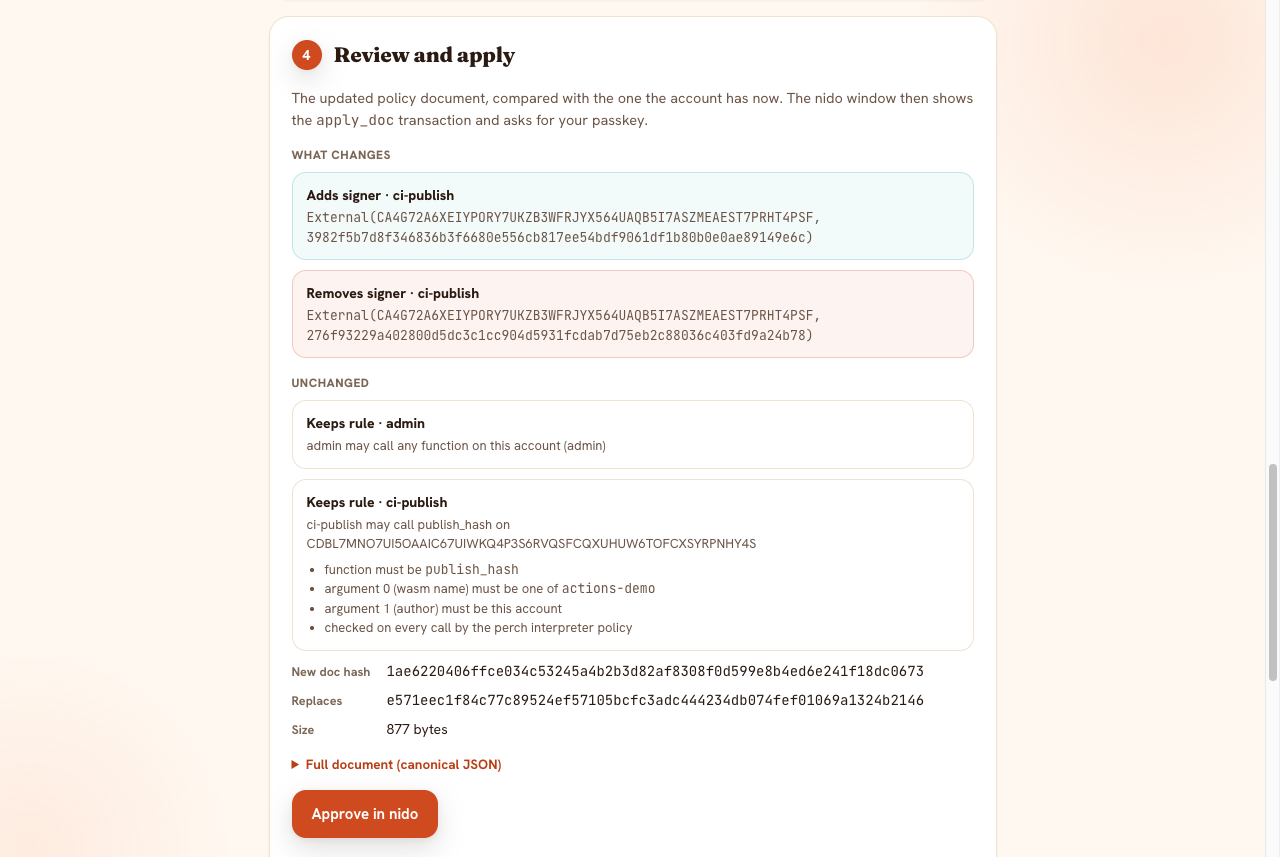
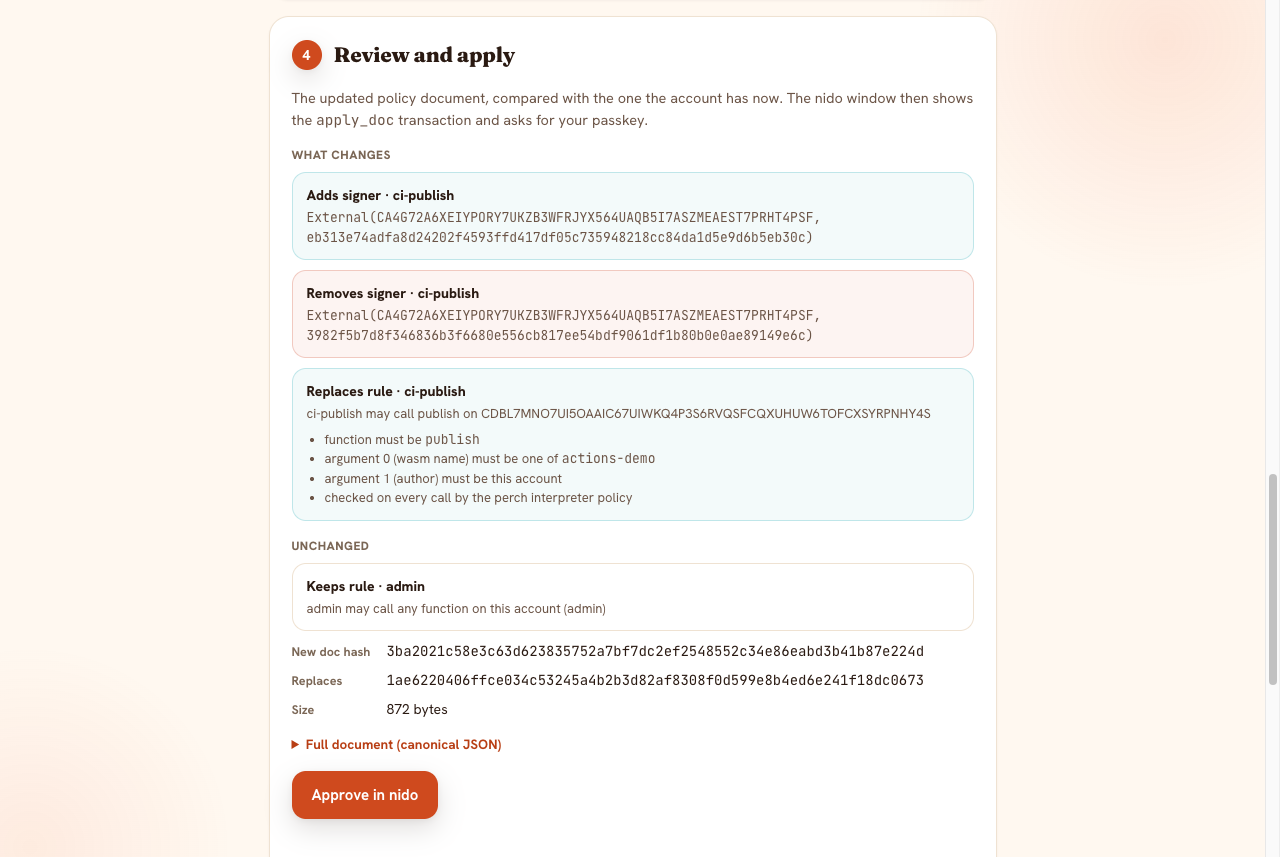
docs: publish-only rule, release-PR flow, run 3 evidence and screenshots

diff --git a/README.md b/README.md
@@ -3,10 +3,11 @@
 A working demo of the Stellar Registry release pipeline from
 [stellar-registry/actions](https://github.com/stellar-registry/actions), running
 on testnet. Merged changes collect in one release PR; merging that PR tags,
-builds, attests and publishes a Soroban contract to the Registry. The publish is signed by a CI key that can call
-`publish_hash` on one registry for one wasm name and nothing else. You
-provision that key with a [nido](https://nido.fyi) smart-account wallet from
-this repo's GitHub Pages dapp:
+builds, attests and publishes a Soroban contract to the Registry. The publish
+is signed by a CI key that can call `publish` on one registry for one wasm
+name and nothing else. You provision that key with a
+[nido](https://nido.fyi) smart-account wallet from this repo's GitHub Pages
+dapp:
 
 **https://stellar-registry.github.io/actions-demo/**
 
@@ -19,8 +20,8 @@ The repo is the proof for the SCF public-goods milestone
 | --- | --- |
 | Wrap the stellar-expert soroban build workflow | [`release.yml`](.github/workflows/release.yml) calls `contract-release.yml` from stellar-registry/actions, the registry's version of `stellar-expert/soroban-build-workflow`. It creates the GitHub release, submits the hash to stellar.expert contract validation and signs GitHub build provenance for the wasm. |
 | Build with `stellar scaffold build` | `contract-release.yml` runs `stellar scaffold build --package actions-demo --meta source_repo=…` then `stellar contract optimize`. `cargo_inherit` in the crate manifest writes the version into the wasm as `binver` meta. |
-| Publish new versions of already-published wasms to the Registry | `registry-publish.yml` verifies the attestation and `binver`, uploads the code and calls `publish_hash`. [Run 1](https://github.com/stellar-registry/actions-demo/actions/runs/36362820785) published `actions-demo` 0.1.0, which claimed the name. [Run 2](https://github.com/stellar-registry/actions-demo/actions/runs/36362983847) published 0.1.1 as a new version of the already-published wasm. |
-| Research keys that can only invoke `publish`, can live in a GitHub workflow, and carry no risky privileges | The CI key is a signer on a nido smart account whose policy document scopes it to `publish_hash` on one registry, for listed names, with the account itself as author. See [Security model](#security-model). The ML-DSA (post-quantum) variant is researched and proven on testnet, but the shared workflow can't sign it yet: [stellar-registry/actions#14](https://github.com/stellar-registry/actions/issues/14). |
+| Publish new versions of already-published wasms to the Registry | `registry-publish.yml` verifies the attestation and `binver`, then publishes with one smart-account-signed `publish`. A wasm over 60 KiB is uploaded first and bound with `publish_hash` instead ([stellar-registry/actions#15](https://github.com/stellar-registry/actions/pull/15)). [Run 1](https://github.com/stellar-registry/actions-demo/actions/runs/36362820785) published `actions-demo` 0.1.0, which claimed the name. [Run 2](https://github.com/stellar-registry/actions-demo/actions/runs/36362983847) published 0.1.1 as a new version; both used the earlier upload + `publish_hash` path. [Run 3](https://github.com/stellar-registry/actions-demo/actions/runs/36366464508) published 0.1.2 with a single `publish`. |
+| Research keys that can only invoke `publish`, can live in a GitHub workflow, and carry no risky privileges | The CI key is a signer on a nido smart account whose policy document scopes it to `publish` on one registry, for listed names, with the account itself as author. See [Security model](#security-model). The ML-DSA (post-quantum) variant is researched and proven on testnet, but the shared workflow can't sign it yet: [stellar-registry/actions#14](https://github.com/stellar-registry/actions/issues/14). |
 | A documented repository, tested in production | This README and the [testnet evidence](#testnet-evidence) below. |
 | Contract upgrades | Deferred by the milestone; out of scope here. |
 
@@ -31,14 +32,18 @@ flowchart LR
   A[merge PR] --> B[release-pr<br/>git-cliff bump]
   B -->|merge release PR| C[detect-releases<br/>tag actions-demo-vX.Y.Z]
   C --> D[contract-release<br/>scaffold build, optimize,<br/>GitHub release, attestation]
-  D --> E[registry-publish<br/>verify, upload, publish_hash]
+  D --> E[registry-publish<br/>verify, publish]
   E --> R[(Registry<br/>CDBL7MNO…)]
   K[CI key<br/>secrets.CI_PUBLISH_SECRET_KEY] -. signs as .-> N[nido account<br/>vars.AUTHOR_ADDRESS]
   N -. author of .-> R
 ```
 
-All four jobs are stellar-registry/actions reusable workflows, pinned to commit
-`7152f7c` the way [perch](https://github.com/stellar-registry/perch) pins them.
+All four jobs are stellar-registry/actions reusable workflows, pinned by
+commit the way [perch](https://github.com/stellar-registry/perch) pins them:
+`7152f7c` for release-pr, detect-releases and contract-release. registry-publish
+is pinned to `7076ce9`, the head of
+[stellar-registry/actions#15](https://github.com/stellar-registry/actions/pull/15);
+that pin moves to the merged commit before this repo's PR merges.
 
 Publishing is a manual decision. Every push to `main` runs `release-pr`, which
 keeps one `chore: release` PR open with the next version and changelog,
@@ -57,20 +62,26 @@ no GitHub App is needed.
 
 ### What signs, and what pays
 
-`registry-publish.yml` runs two transactions per release:
+`registry-publish.yml` publishes a wasm that fits in one transaction with a
+single **`registry.publish(name, author, wasm, version)`**. The registry
+uploads the bytes itself and calls `author.require_auth()`; the author is the
+nido smart account.
+- **Signing.** The `theahaco/stellar-cli` fork the workflow installs finds the
+  account's rule that lists the CI key. It signs the account's auth entry: an
+  OZ `AuthPayload` with one `External(ed25519 verifier, public key)` signer
+  over the rule-bound digest. That entry includes the wasm bytes, so the
+  signature covers the code itself.
+- **Checking.** The account's `__check_auth` verifies the signature through
+  perch's ed25519 verifier (`CA4G72A6…`). The perch interpreter policy on the
+  rule then checks the call.
+- **Paying.** The CI key's own classic account is the transaction source and
+  pays the fee.
 
-1. **`stellar contract upload`** installs the wasm. It is a plain host-function
-   operation authorized by the transaction source, the CI key's own account,
-   which also pays the fee. The smart account plays no part in it.
-2. **`registry.publish_hash(name, author, hash, version)`** binds the name and
-   version to the hash. The registry calls `author.require_auth()`, and the
-   author is the nido smart account. The `theahaco/stellar-cli` fork the
-   workflow installs finds the account's rule that lists the CI key and signs
-   the account's auth entry: an OZ `AuthPayload` with one
-   `External(ed25519 verifier, public key)` signer over the rule-bound digest.
-   The account's `__check_auth` verifies the signature through perch's ed25519
-   verifier (`CA4G72A6…`), then the perch interpreter policy on the rule checks
-   the call. The CI key's account is the source and fee payer here too.
+The wasm travels twice in that transaction, as the argument and inside the
+signed auth entry, and a Soroban transaction is capped at 132096 bytes. So a
+wasm over `publish_max_wasm_bytes` (60 KiB) takes the fallback: a
+`stellar contract upload` authorized by the transaction source alone, then
+`publish_hash` signed the same way. The demo contract is about 1 KB.
 
 So one ordinary Stellar key (`S…`/`G…`) does both jobs. It pays fees from its
 own balance (testnet XLM from friendbot) and it signs for the smart account only
@@ -93,7 +104,7 @@ the canonical JSON and its hash on-chain. The dapp reads the applied document,
 or nido's passkey-admin baseline on a first apply. It adds the key and one
 rule, and hands the `apply_doc` transaction to the nido wallet, where the
 passkey signs it. Here is the document now applied on testnet, key material
-shortened (read it with `get_applied_doc`; its hash is `1ae62204…`):
+shortened (read it with `get_applied_doc`; its hash is `3ba2021c…`):
 
 ```json
 {
@@ -101,7 +112,7 @@ shortened (read it with `get_applied_doc`; its hash is `1ae62204…`):
   "network": "Test SDF Network ; September 2015",
   "signers": [
     { "id": "admin", "verifier": "CACVGSAHYFBXY4LJKWW5B57LAAXHCZVDZOANUTYPLNV6HHQI4Q35EGMY", "key": "04aef679…a68930" },
-    { "id": "ci-publish", "verifier": "CA4G72A6XEIYPORY7UKZB3WFRJYX564UAQB5I7ASZMEAEST7PRHT4PSF", "key": "3982f5b7…149e6c" }
+    { "id": "ci-publish", "verifier": "CA4G72A6XEIYPORY7UKZB3WFRJYX564UAQB5I7ASZMEAEST7PRHT4PSF", "key": "eb313e74…5eb30c" }
   ],
   "rules": [
     { "name": "admin", "scope": { "type": "self-admin" }, "principals": { "type": "all", "signers": ["admin"] } },
@@ -109,7 +120,7 @@ shortened (read it with `get_applied_doc`; its hash is `1ae62204…`):
       "name": "ci-publish",
       "scope": { "type": "contract", "address": "CDBL7MNO7UI5OAAIC67UIWKQ4P3S6RVQSFCQXUHUW6TOFCXSYRPNHY4S" },
       "principals": { "type": "all", "signers": ["ci-publish"] },
-      "functions": ["publish_hash"],
+      "functions": ["publish"],
       "args": [
         { "index": 0, "pred": { "type": "string-in", "values": ["actions-demo"] } },
         { "index": 1, "pred": { "type": "is-self" } }
@@ -119,13 +130,14 @@ shortened (read it with `get_applied_doc`; its hash is `1ae62204…`):
 }
 ```
 
-`publish_hash` is the only function the rule allows, because it is the only call
-in the publish path that needs the account's signature. The upload needs none.
+`publish` is the only function the rule allows. The dapp adds `publish_hash`
+only when you tick "Also allow publish_hash", which is needed only if one of
+your wasms is over 60 KiB and goes through the upload fallback.
 
 ## Security model
 
-**What the key can do.** Sign `publish_hash` on the registry named in the rule,
-for a wasm name in the allow-list, with the nido account as author. It can also
+**What the key can do.** Sign `publish` on the registry named in the rule, for
+a wasm name in the allow-list, with the nido account as author. It can also
 spend its own account's XLM on fees.
 
 **What it can't do.** Each of these was checked on testnet by an
@@ -134,13 +146,13 @@ enforce-mode simulation signed by the live CI key. Run it yourself with
 submitted:
 
 ```text
-key GA4YF5NX3DZUNA3LH5TIBZKWZOAX5ZKL36IGDXY3QCYOBLUJCSPGZ6ZA holds rule #8 "ci-publish" on CD2BVQMPYCMNAWYFSFD234HEKJB6EH74EQWPRNVP3MVSKALH3ORS7MWM
+key GDVTCPTUVX5I2JBAF5CZH76UC7PQLRZVSSBBRTEE3IOV5HLLL2ZQYRWY holds rule #10 "ci-publish" on CD2BVQMPYCMNAWYFSFD234HEKJB6EH74EQWPRNVP3MVSKALH3ORS7MWM
 
-publish_hash, allowed name, author = account (expected: AUTHORIZED)
+publish, allowed name, author = account (expected: AUTHORIZED)
   -> AUTHORIZED
-publish_hash, another name
+publish, another name
   -> refused: Error(Auth, InvalidAction)
-publish (wasm bytes), not in the rule
+publish_hash (authorized only if the rule opted in for wasms over 60 KiB)
   -> refused: Error(Auth, InvalidAction)
 XLM transfer out of the account
   -> refused: Error(Auth, InvalidAction)
@@ -156,7 +168,9 @@ apply_doc (rewrite the account policy)
   is outside the rule's function list. (On this registry deployment that call
   fails in simulation with a storage error before auth is checked, so the
   scope check can't exercise it and doesn't list it.)
-- `publish_hash` binds a name and version to code, and deploys nothing, so
+- `publish_hash` is refused: the rule doesn't opt in, and the demo's wasm is
+  far below the 60 KiB fallback threshold.
+- `publish` binds a name and version to code, and deploys nothing, so
   publishing grants no authority over existing contracts.
 
 **If the secret leaks.** An attacker can publish a version of the listed names
@@ -166,7 +180,7 @@ on-chain with no matching GitHub release or build attestation, which is how
 consumers who check provenance tell it apart. Response: run the dapp again to
 rotate. `apply_doc` replaces the whole document, so the old key's signer entry
 is gone in the same transaction, and a rotated-out key has no rule to sign
-under. This repo's key was rotated that way three times during the demo. To
+under. This repo's key was rotated that way four times during the demo. To
 revoke without a replacement, remove the `ci-publish` rule on nido's policy
 page.
 
@@ -190,9 +204,10 @@ The dapp at https://stellar-registry.github.io/actions-demo/, with a nido
 testnet account. These screenshots are from the testnet run documented below;
 the secret is redacted.
 
-**1. Registry.** Enter the registry and the wasm names the key may publish. The
-page reads the registry's manager and the current version of each name, and
-resolves perch's ed25519 verifier.
+**1. Registry.** Enter the registry and the wasm names the key may publish,
+and tick `publish_hash` only if a wasm is over 60 KiB. The page reads the
+registry's manager and the current version of each name, and resolves perch's
+ed25519 verifier.
 
 ![Registry step](docs/img/1-registry.png)
 
@@ -210,7 +225,9 @@ ticking the checkbox removes it from the page.
 ![Key step](docs/img/3-key.png)
 
 **4. Review and apply.** The page shows how the new document differs from the
-current one; this run is a rotation, so one signer is swapped. "Approve in nido"
+current one. This run is a rotation that also moves the rule from
+`publish_hash` to `publish`, so a signer is swapped and the rule replaced.
+"Approve in nido"
 preflights `apply_doc` by simulation, then opens the account's
 `/sign/` page, where the passkey signs and nido's relayer submits.
 
@@ -229,15 +246,17 @@ and secret to set.
 | nido author account | [`CD2BVQMPYCMNAWYFSFD234HEKJB6EH74EQWPRNVP3MVSKALH3ORS7MWM`](https://stellar.expert/explorer/testnet/contract/CD2BVQMPYCMNAWYFSFD234HEKJB6EH74EQWPRNVP3MVSKALH3ORS7MWM) |
 | First `apply_doc` (adds `ci-publish`, local build of the dapp) | [`58ce402c…`](https://stellar.expert/explorer/testnet/tx/58ce402c190a3805a2e87b5beb022594f10a734800608b7ca62479fc1de5d019) |
 | Rotation from the live page (key used by the CI runs) | [`cdc673e5…`](https://stellar.expert/explorer/testnet/tx/cdc673e550ab39a671fef36a53f7a993d5ad4eb2b61e406def6b97611384b983) |
-| Later rotations from the live page (screenshot runs; the last is the current key) | [`d2bac458…`](https://stellar.expert/explorer/testnet/tx/d2bac4580dde98a6f6c3a39b385a216abddcb707c9bd93c98b99608dfc6534f3), [`cd19503a…`](https://stellar.expert/explorer/testnet/tx/cd19503a23ea621bc0ff6fef352034b03c9bb455a349493e2003c98efe2fbce2) |
+| Later rotations from the live page (screenshot runs) | [`d2bac458…`](https://stellar.expert/explorer/testnet/tx/d2bac4580dde98a6f6c3a39b385a216abddcb707c9bd93c98b99608dfc6534f3), [`cd19503a…`](https://stellar.expert/explorer/testnet/tx/cd19503a23ea621bc0ff6fef352034b03c9bb455a349493e2003c98efe2fbce2) |
+| Rule moved to `publish`-only, new key (current state) | [`0c4e880e…`](https://stellar.expert/explorer/testnet/tx/0c4e880e6cc4f04789fff511429f0e22fec569b340cf7679819b14d3880902f6) |
 | Release run 1: 0.1.0, claims the name | [run](https://github.com/stellar-registry/actions-demo/actions/runs/36362820785), [release](https://github.com/stellar-registry/actions-demo/releases/tag/actions-demo-v0.1.0), upload [`749f0319…`](https://stellar.expert/explorer/testnet/tx/749f031969e240b10001bc7e9cef983ebd60bd5507594f3e3782a895d12a8ef9), `publish_hash` [`1bf5bb7a…`](https://stellar.expert/explorer/testnet/tx/1bf5bb7a936c3bbe06ca1a3c5b7e23307a2d6efac92cc39913450c7eb8450055), wasm `711445f3…` |
 | Release run 2: 0.1.1, a new version of the published wasm | [run](https://github.com/stellar-registry/actions-demo/actions/runs/36362983847), [release](https://github.com/stellar-registry/actions-demo/releases/tag/actions-demo-v0.1.1), upload [`0b7c7735…`](https://stellar.expert/explorer/testnet/tx/0b7c77358239a2582c483390123b473c757220acd8ce92f4607c2e88aa3a908b), `publish_hash` [`ae473fa9…`](https://stellar.expert/explorer/testnet/tx/ae473fa904b6edb45b8c48b3420a2bd2e81dfc58fe4891477a5c18119b4b3ef5), wasm `f71d573b…` |
+| Release run 3: 0.1.2, one `publish` transaction (registry-publish at actions#15 head) | [run](https://github.com/stellar-registry/actions-demo/actions/runs/36366464508), [release](https://github.com/stellar-registry/actions-demo/releases/tag/actions-demo-v0.1.2), `publish` [`58ec8b59…`](https://stellar.expert/explorer/testnet/tx/58ec8b5907d4cc5a136e62c52bad1910e794fcfbac798271ddf100893eeda3f7), wasm `280a3a18…`, receipt `"method": "publish"` |
 
-Both runs executed from the PR branch before merge. For the proof, the release
-and Pages workflows temporarily triggered on that branch too; the trigger was
-removed again before review. The runs used a hand-bumped version and predate
-the release gate. On `main`, only a release PR merge or a manual run
-publishes. Each release carries the attested wasm and the
+All three runs executed from the PR branch before merge. For the proof, the
+release and Pages workflows temporarily triggered on that branch too, and for
+run 3 the release gate temporarily let this branch through; both were removed
+again before review. Each run used a hand-bumped version. On `main`, only a
+release PR merge or a manual run publishes. Each release carries the attested wasm and the
 `publish-receipt.json` that `registry-publish.yml` attaches.
 
 Check the registry yourself:
